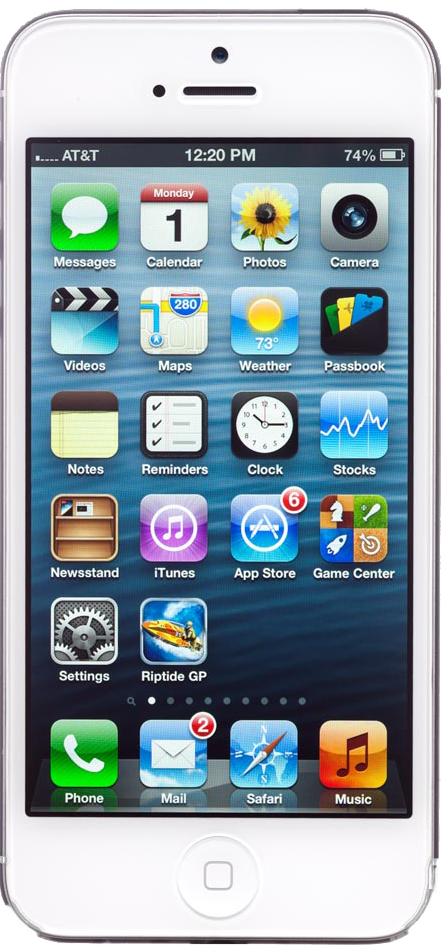
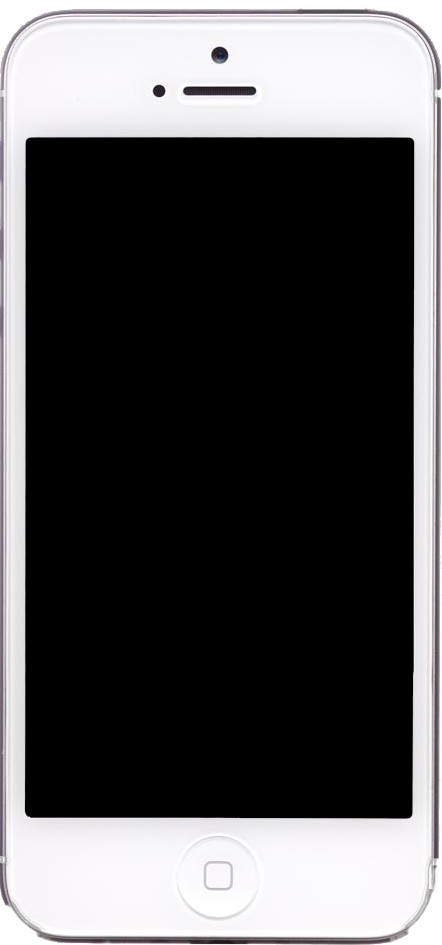
The phone image now has a black screen. The phone no longer resizes with the window. The content div is sized appropriately. There is now a distinction in CSS between display for computer screens and display for mobile devices.

diff --git a/www/styles/index.css b/www/styles/index.css
@@ -3,17 +3,33 @@ margin:0;
 padding:0; 
 height:100%; 
 }
-#phone {
-	height:100%;
+
+@media handheld{
+	#phone{
+		width:374px;
+		height:800px;
+		
+		background-image:url('../assets/phone.png');
+		background-size:374px
+	}
+
+	#phoneContent {
+		position:relative;
+		width:327px;
+		height:575px;
+		left:22px;
+		top:116px;
+	}
 }
 
-#phoneImage {
-	height:100%;
-	min-height:500px;
-	min-width:234px;
-}
-
-#phoneContent {
-	position:relative;
-	height:100px;
+@media screen{
+	#phone{
+		width:327px;
+		height:575px;
+		background:#000000;
+	}
+	
+	#phoneContent{
+		height:100%;
+	}
 }

diff --git a/www/index.html b/www/index.html
@@ -4,7 +4,6 @@
 	<link rel="stylesheet" href="styles/index.css" />
 	<body>
 		<div id="phone">
-			<img id="phoneImage" src="assets/phone.png" />
 				<div id="phoneContent">
 				</div>
 		</div>
